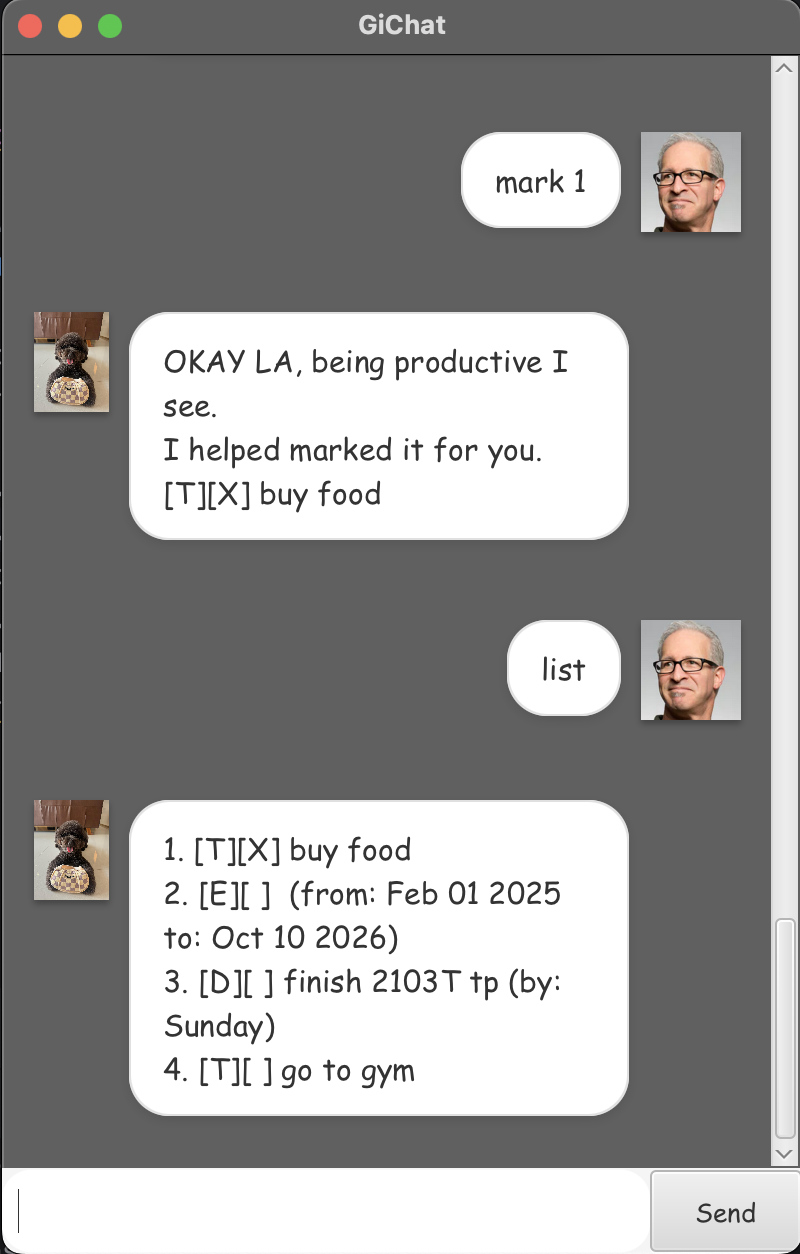
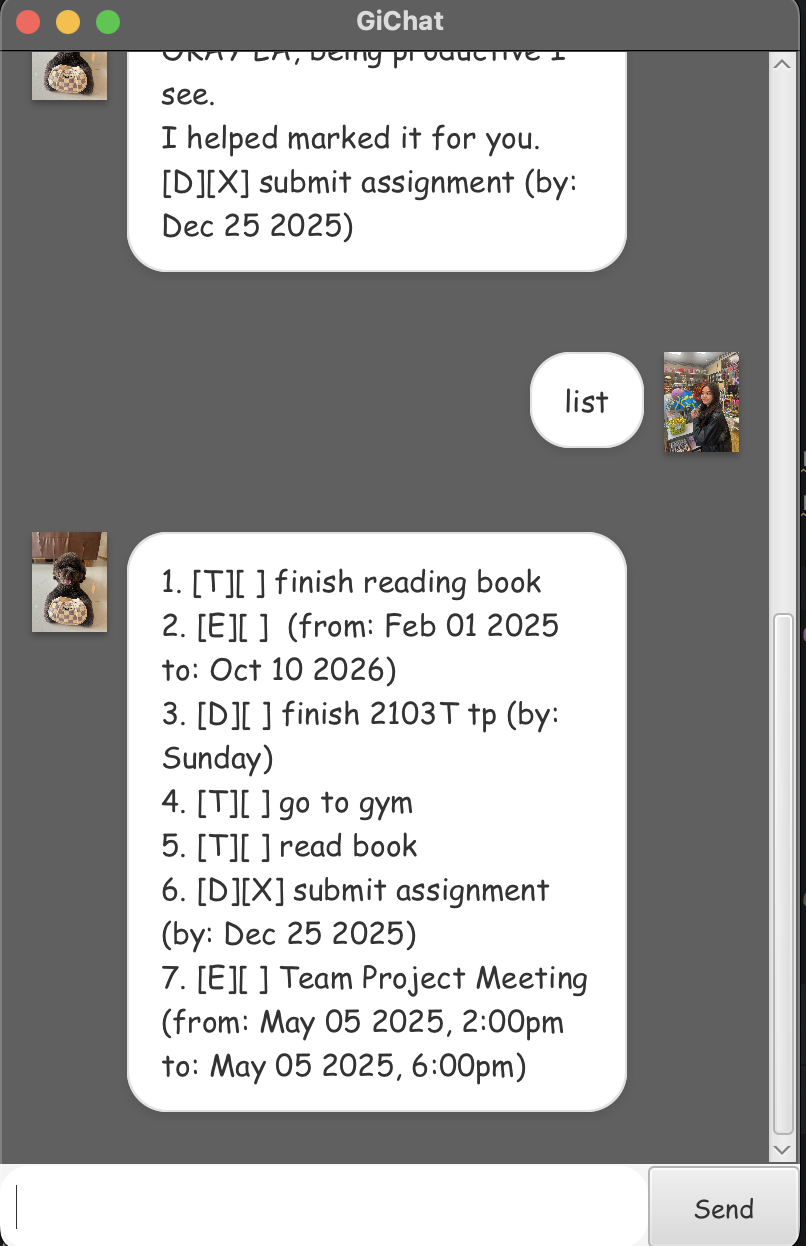
Update Bot Image

diff --git a/src/main/java/gichat/gui/MainWindow.java b/src/main/java/gichat/gui/MainWindow.java
@@ -24,8 +24,8 @@ public class MainWindow extends AnchorPane {
 
     private Duke duke;
 
-    private Image userImage = new Image(this.getClass().getResourceAsStream("/images/DaUser.png"));
-    private Image dukeImage = new Image(this.getClass().getResourceAsStream("/images/Gi.jpg"));
+    private Image userImage = new Image(this.getClass().getResourceAsStream("/images/GI.png"));
+    private Image dukeImage = new Image(this.getClass().getResourceAsStream("/images/Gigi.jpg"));
 
     @FXML
     public void initialize() {
